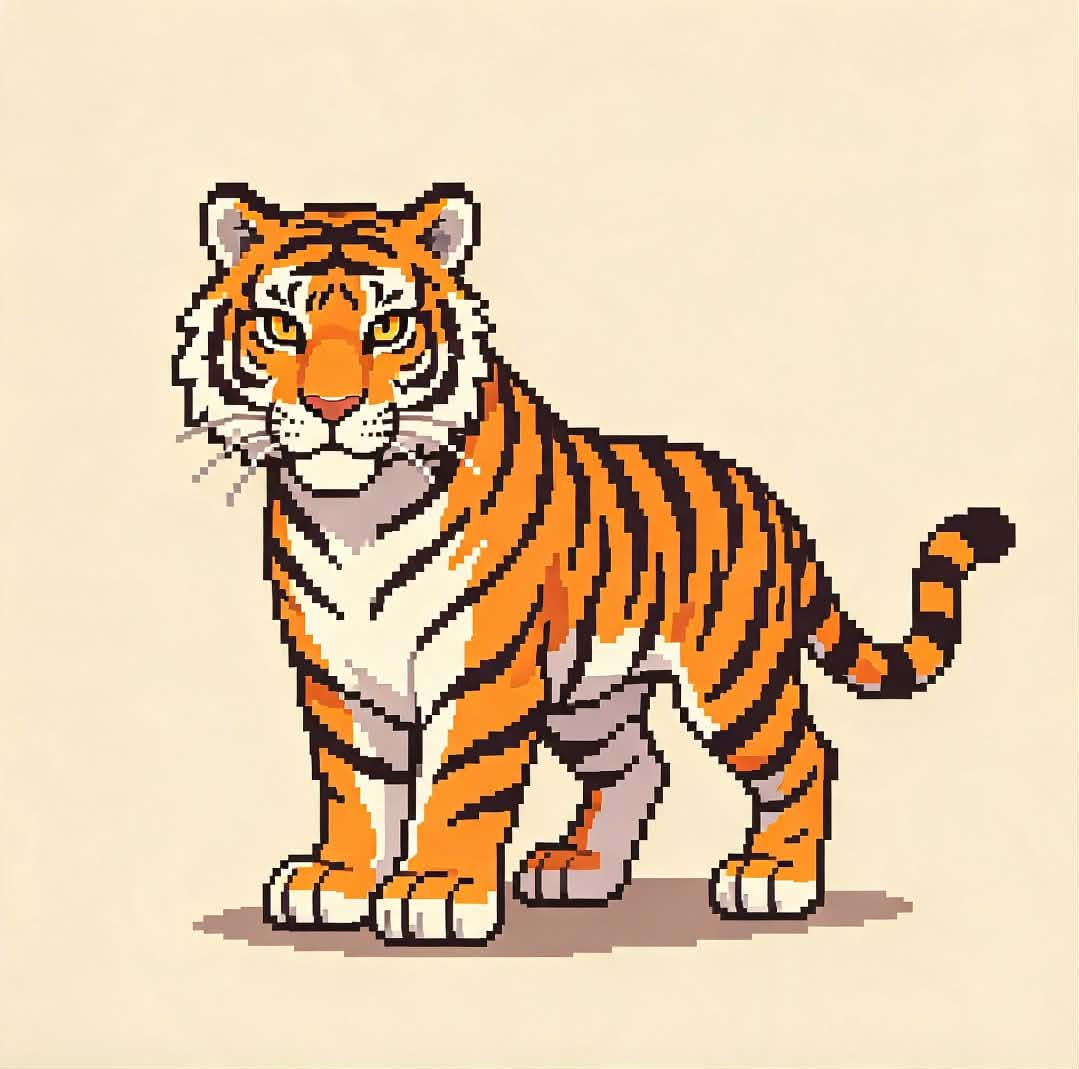
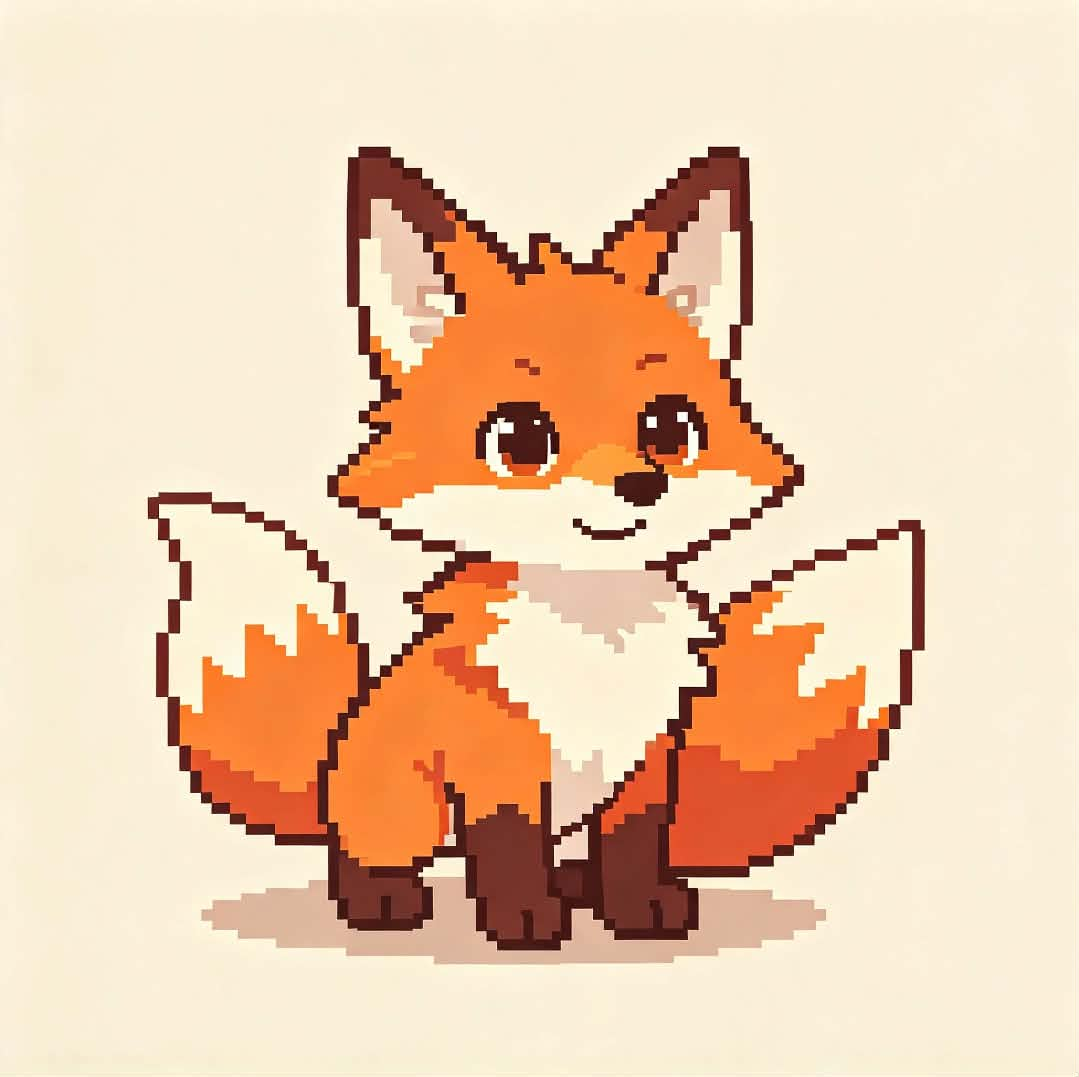
update

diff --git a/TechQuestFrontend/scene/AdventureGame/NPC/AdminNPC/AdminNpcManager.cs b/TechQuestFrontend/scene/AdventureGame/NPC/AdminNPC/AdminNpcManager.cs
@@ -39,7 +39,7 @@ public abstract partial class AdminNpcManager : Control
 	private bool isUndeployingNpc;
 	private bool isSavingConfiguration;
 	private Control configurationPopup;
-	private LineEdit subjectInput;
+	private OptionButton subjectInput;
 	private LineEdit questionInput;
 	private LineEdit correctAnswerInput;
 	private LineEdit answerTipInput;
@@ -312,7 +312,7 @@ public abstract partial class AdminNpcManager : Control
 		configurationPopup = GetNode<Control>(Difficulty + "MapNPCManagement");
 		configurationPopup.Hide();
 		configurationTitle = configurationPopup.GetNode<Label>("NPCManagementLabel");
-		subjectInput = configurationPopup.GetNode<LineEdit>("SubjectLabel/Subject");
+		subjectInput = configurationPopup.GetNode<OptionButton>("SubjectLabel/Subject");
 		miniGameInput = configurationPopup.GetNode<OptionButton>("MinigameLabel/MinigameOptions");
 		questionInput = configurationPopup.GetNode<LineEdit>("QuestionLabel/Question");
 		configurationPopup.GetNode<Control>("AnswerChoicesLabel").Hide();
@@ -338,7 +338,7 @@ public abstract partial class AdminNpcManager : Control
 			editingConfiguration = configuration;
 			configurationTitle.Text = "Manage " + npc.NpcName + " (Deployment " +
 				deployment.DeploymentId + ")";
-			subjectInput.Text = configuration.SubjectName;
+			SelectSubject(configuration.SubjectName);
 			questionInput.Text = configuration.Question;
 			correctAnswerInput.Text = configuration.CorrectAnswer;
 			answerTipInput.Text = configuration.AnswerTip;
@@ -379,12 +379,68 @@ public abstract partial class AdminNpcManager : Control
 			gameType == "QuickTapChallenge";
 	}
 
+	private void SelectSubject(string selectedSubject)
+	{
+		subjectInput.Clear();
+		subjectInput.AddItem("Select a subject");
+
+		string[] subjects = Difficulty switch
+		{
+			"Easy" =>
+			[
+				"GECUTS - Understanding the Self",
+				"GECMMW - Math in the Modern World",
+				"FIL 1 - Komunikasyon sa Akademikong Filipino",
+				"NSTP 1 - Civic Welfare & Training Services 1",
+				"PATHFIT 1 - Physical Activities Toward Health and Fitness 1",
+				"GECARTA - Art Appreciation",
+				"GECSTS - Science, Technology and Society",
+				"FIL 2 - Pagbasa at Pagsulat tungo sa Pananaliksik",
+				"NSTP 2 - Civic Welfare & Training Services 2",
+				"PATHFIT 2 - Advance Physical Fitness",
+				"GECPC - Purposive Communication"
+			],
+			"Medium" =>
+			[
+				"GECTCW - The Contemporary world",
+				"GECETH - Professional Ethics",
+				"GEEMST - Living in IT Era",
+				"PATHFIT 3 - Teamsports",
+				"PATHFIT 4 - Dance",
+				"GEEAH - Reading in Visual Arts"
+			],
+			"Hard" =>
+			[
+				"GEESSP - The Entrepreneurial Mind",
+				"GEMRZL - Rizal Life Works and Writing",
+				"SP 101 - Social Issues and Professional Practices"
+			],
+			_ => throw new InvalidOperationException($"Unsupported NPC difficulty: {Difficulty}")
+		};
+
+		int selectedIndex = -1;
+		foreach (string subject in subjects)
+		{
+			subjectInput.AddItem(subject);
+			if (string.Equals(subject, selectedSubject, StringComparison.OrdinalIgnoreCase))
+				selectedIndex = subjectInput.ItemCount - 1;
+		}
+
+		if (selectedIndex < 0 && !string.IsNullOrWhiteSpace(selectedSubject))
+		{
+			subjectInput.AddItem(selectedSubject);
+			selectedIndex = subjectInput.ItemCount - 1;
+		}
+
+		subjectInput.Select(Math.Max(0, selectedIndex));
+	}
+
 	private async void SaveConfigurationAsync()
 	{
 		if (editingConfiguration == null || isSavingConfiguration)
 			return;
 
-		if (string.IsNullOrWhiteSpace(subjectInput.Text) ||
+		if (subjectInput.Selected <= 0 ||
 			string.IsNullOrWhiteSpace(questionInput.Text) ||
 			string.IsNullOrWhiteSpace(correctAnswerInput.Text))
 		{
@@ -400,7 +456,7 @@ public abstract partial class AdminNpcManager : Control
 
 		isSavingConfiguration = true;
 		saveConfigurationButton.Disabled = true;
-		editingConfiguration.SubjectName = subjectInput.Text.Trim();
+		editingConfiguration.SubjectName = subjectInput.GetItemText(subjectInput.Selected);
 		int miniGameId = miniGameInput.GetItemId(miniGameInput.Selected);
 		editingConfiguration.MiniGameId = miniGameId > 0 ? miniGameId : null;
 		editingConfiguration.Question = questionInput.Text.Trim();

diff --git a/TechQuestFrontend/scene/Minigame/FallingDuck.cs b/TechQuestFrontend/scene/Minigame/FallingDuck.cs
@@ -142,12 +142,35 @@ public partial class FallingDuck : Node2D
 
 		foreach (Node child in duckContainer.GetChildren())
 		{
-			if (child is FallingDuckTarget duck && duck.GetOverlappingBodies().Contains(player))
+			if (child is FallingDuckTarget duck
+				&& (duck.GetOverlappingBodies().Contains(player) || IsPlayerTouchingDuck(duck)))
 			{
 				FinishGame(false);
 				return;
 			}
 		}
+	}
+
+	private bool IsPlayerTouchingDuck(FallingDuckTarget duck)
+	{
+		CollisionShape2D duckCollision = duck.GetNodeOrNull<CollisionShape2D>("DuckCollision");
+		if (playerCollision?.Shape is not RectangleShape2D playerShape
+			|| duckCollision?.Shape is not CircleShape2D duckShape)
+			return false;
+
+		Transform2D playerTransform = playerCollision.GlobalTransform;
+		Vector2 halfSize = playerShape.Size / 2;
+		Vector2 halfExtents = new(
+			Mathf.Abs(playerTransform.X.X) * halfSize.X + Mathf.Abs(playerTransform.Y.X) * halfSize.Y,
+			Mathf.Abs(playerTransform.X.Y) * halfSize.X + Mathf.Abs(playerTransform.Y.Y) * halfSize.Y);
+		Transform2D duckTransform = duckCollision.GlobalTransform;
+		float duckRadius = duckShape.Radius * Math.Max(duckTransform.X.Length(), duckTransform.Y.Length());
+		Vector2 difference = duckCollision.GlobalPosition - playerCollision.GlobalPosition;
+		Vector2 nearestPoint = new(
+			Mathf.Clamp(difference.X, -halfExtents.X, halfExtents.X),
+			Mathf.Clamp(difference.Y, -halfExtents.Y, halfExtents.Y));
+
+		return (difference - nearestPoint).LengthSquared() <= duckRadius * duckRadius;
 	}
 
 	private float GetPlayerHalfWidth()

diff --git a/TechQuestBackend/obj/Debug/net10.0/TechQuestBackend.AssemblyInfo.cs b/TechQuestBackend/obj/Debug/net10.0/TechQuestBackend.AssemblyInfo.cs
@@ -14,7 +14,7 @@ using System.Reflection;
 [assembly: System.Reflection.AssemblyCompanyAttribute("TechQuestBackend")]
 [assembly: System.Reflection.AssemblyConfigurationAttribute("Debug")]
 [assembly: System.Reflection.AssemblyFileVersionAttribute("1.0.0.0")]
-[assembly: System.Reflection.AssemblyInformationalVersionAttribute("1.0.0+f0fc2a66d7d61242f457035a9cb3da38b0912b28")]
+[assembly: System.Reflection.AssemblyInformationalVersionAttribute("1.0.0+39568e8dd4ebe87e4ca6b4903aa8f9e834e07cbb")]
 [assembly: System.Reflection.AssemblyProductAttribute("TechQuestBackend")]
 [assembly: System.Reflection.AssemblyTitleAttribute("TechQuestBackend")]
 [assembly: System.Reflection.AssemblyVersionAttribute("1.0.0.0")]

diff --git a/TechQuestFrontend/scene/Dashboard/Modules/Room/StudentRoomResult.cs b/TechQuestFrontend/scene/Dashboard/Modules/Room/StudentRoomResult.cs
@@ -42,7 +42,6 @@ public partial class StudentRoomResult : Control
 		identificationTemplate.Visible = false;
 		GetNode<Button>("RoomResult/VBoxContainer/ReviewButton").Pressed += reviewPanel.Show;
 		GetNode<Button>("QuizReview/CloseButton").Pressed += reviewPanel.Hide;
-		GetNode<Button>("BackButton").Pressed += OnBackPressed;
 		GetNode<Button>("RoomResult/VBoxContainer/BackButton").Pressed += OnBackPressed;
 		_ = LoadResultAsync();
 	}
